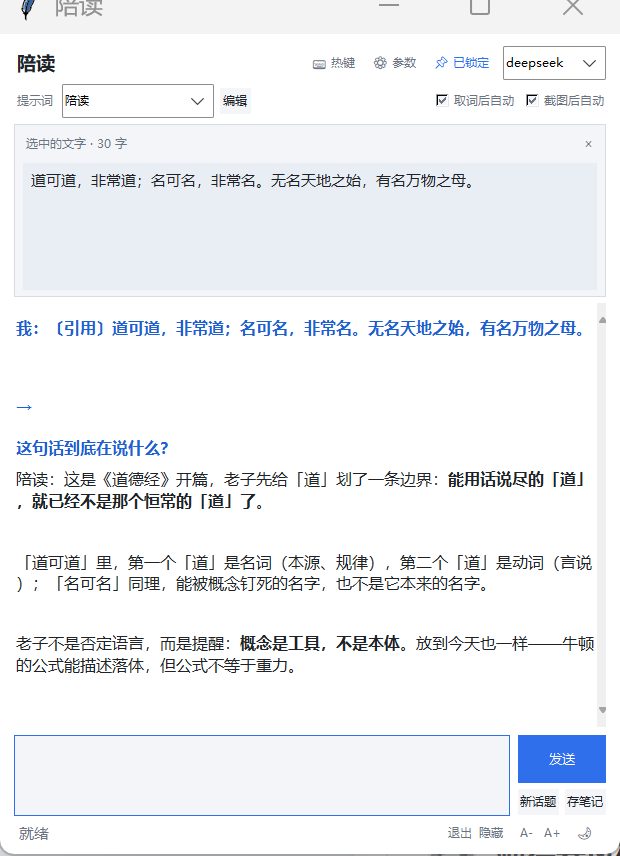
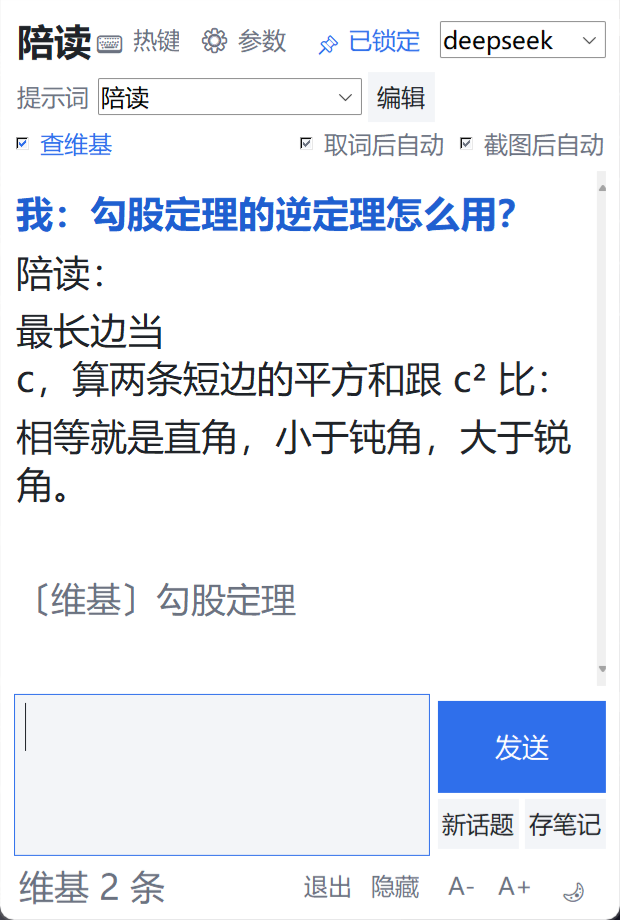
v1.1.0：查维基改成主界面全局开关，维基档没开时直说不编
- 主界面新增「查维基」全局开关（config.json 的 wiki_enabled，跟提示词无关，重启保持）
- 维基档（prompts.json 里 wiki: true）在开关关闭时直接回「没有开启查维基」，不发请求、不调模型、不改历史
- 维基档 system 改成：消息里没有【维基资料】就直说没开，不凭记忆编条目
- 维基本地 Kiwix / 官方 Wikipedia 双模式：主地址失败自动回退，官方走 MediaWiki API + SOCKS 代理
- 设置窗可改存笔记目录；提示词管理保存按钮修复（Ctrl+S、原子写入）
- README 更新功能说明、更新日志和界面截图

diff --git a/README.md b/README.md
@@ -15,7 +15,7 @@
 - **连续追问**：对话上下文保留，可以接着问「这句为什么这么解」「再举一例」。
 - **多服务切换**：任何 OpenAI 兼容接口（DeepSeek、本地 llama.cpp / vLLM、Ollama、OneAPI…），窗口右上角下拉即切，附加请求参数支持 JSON。
 - **提示词库**：内置陪读、翻译、润色、总结、拼音注音、古文今译、古文纯译、维基百科八档；可在窗口里增删改。
-- **维基百科资料**：可接本地 Kiwix 服务或官方 Wikipedia（支持代理），先查资料再回答，减少胡编。
+- **维基百科资料**：主界面「☑ 查维基」一键开关（全局，记进 `config.json`，重启保持）；可接本地 Kiwix 服务或官方 Wikipedia（支持代理），先查资料再回答，减少胡编。
 - **公式渲染**：`$...$` / `$$...$$` 用 matplotlib 画成图贴进对话，中文不会变方框。
 - **存笔记**：一键写 Markdown 到 Obsidian 库，截图复制进 `attachments\` 并以 `![[...]]` 内嵌。
 - **托盘常驻**：关窗/最小化收进托盘，热键随时唤出；可置顶、可反色（浅色/深色）、字号 `A-`/`A+` 可调，全部记进 `config.json`。
@@ -25,7 +25,7 @@
 
 ### 方式一：下载便携包（推荐）
 
-到 [Releases](../../releases) 下载 `AI-Peidu-v1.0.0.zip`，解压到任意目录（路径别带奇怪的权限限制），然后：
+到 [Releases](../../releases) 下载 `AI-Peidu-v1.1.0.zip`，解压到任意目录（路径别带奇怪的权限限制），然后：
 
 - 双击 `陪读.exe`，或
 - 双击 `启动陪读.bat`（用包内自带的 Python 运行源码）
@@ -69,6 +69,7 @@ python peidu.py
 | `theme` | `light` / `dark` |
 | `font_size` | 对话区字号（8–20） |
 | `wiki_base` / `wiki_fallback` / `wiki_proxy` | 维基主地址 / 备用地址 / 代理，留空走直连 |
+| `wiki_enabled` | 主界面「☑ 查维基」的全局开关：`true` = 每次提问前先查维基 |
 
 > 本机若装了 STranslate 的 OpenAI 插件，首次启动会尝试从它的配置里导入服务和 Key，省得手填。
 
@@ -114,6 +115,20 @@ AI陪读便携版\
 **托盘图标找不到？** Win11 默认把新图标收进任务栏「^」溢出区，拖出来即可。
 
 **截图/公式图会留着吗？** 不会。`images\` 是运行期缓存，正常退出时清空；要留的图当场点「存笔记」，会被复制进笔记目录的 `attachments\`。
+
+## 更新日志
+
+### v1.1.0（2026-11-05）
+
+- 维基检索改成主界面 **「☑ 查维基」全局开关**（存 `config.json`，重启保持），不用再切提示词档
+- 提示词选「维基百科」但开关没开时，直接回「没有开启查维基」，**不发请求、不编内容**
+- 维基支持**本地 Kiwix / 官方 Wikipedia 双模式**（主地址失败自动回退，官方走 MediaWiki API + 代理）
+- 「⚙ 参数」可改存笔记目录（可浏览选目录）；提示词管理的保存按钮修好（Ctrl+S）
+- 退出自动清空 `images\` 截图缓存；公式渲染中文不再出方框
+
+### v1.0.0（2026-11-05）
+
+- 首个公开版本：划词 / 框选截图 → 自动提问 → 连续追问 → 一键存进 Obsidian
 
 ## 许可
 
